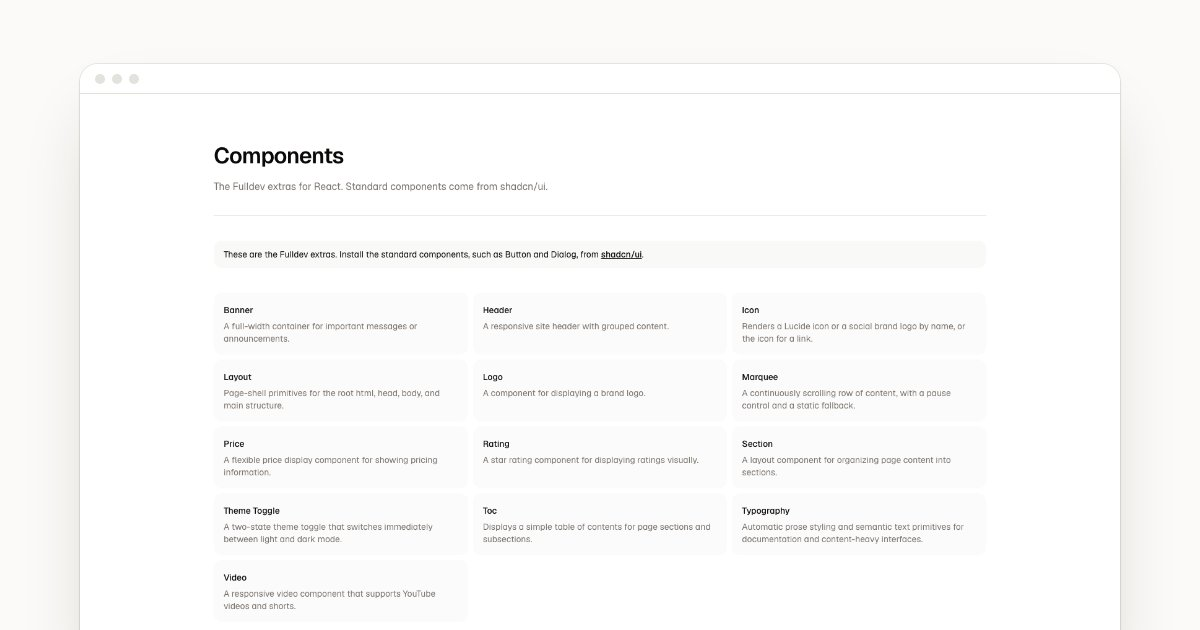
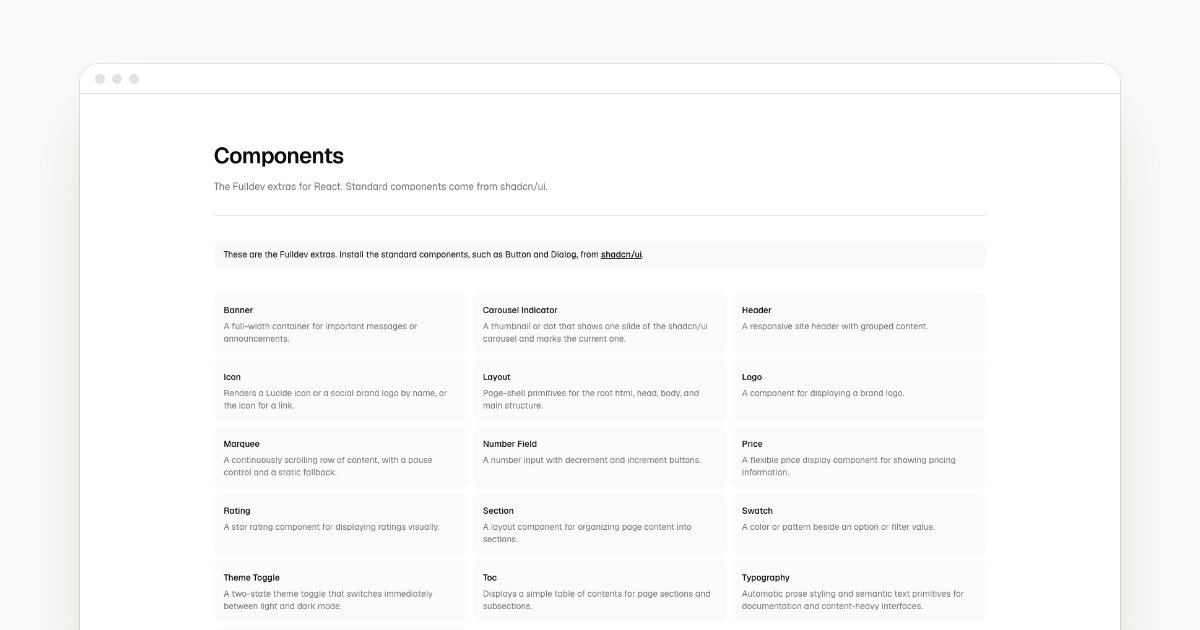
Test the storefront parts, update the menu test for shadcn 4.23, add OG images and a changeset

diff --git a/.changeset/storefront-parts.md b/.changeset/storefront-parts.md
@@ -1,0 +1,5 @@
+---
+"fulldev-ui": minor
+---
+
+Add three storefront parts in Astro, React and native Liquid: `NumberField`, a number input with decrement and increment buttons for quantities; `Swatch`, a color or image beside an option or filter value; and `CarouselIndicator`, a thumbnail that shows its slide, for a product gallery. In Astro and Liquid the number field is a native `<input type="number">` in an input group, as data-slot leaves number fields to the browser, and its buttons fire `input` and `change`; in React it is Base UI's NumberField. An indicator can link to its slide's id, so it also works without JavaScript. In React, `CarouselIndicator` goes inside the official shadcn/ui carousel. Astro `InputGroup` takes a `data-slot`. In Liquid, a native select keeps its text clear of the arrow, and an input group addon sits at the start unless it has `data-align='inline-end'`, as in Astro, so a start icon no longer touches the border. Data-slot packages move to 1.1.3.
